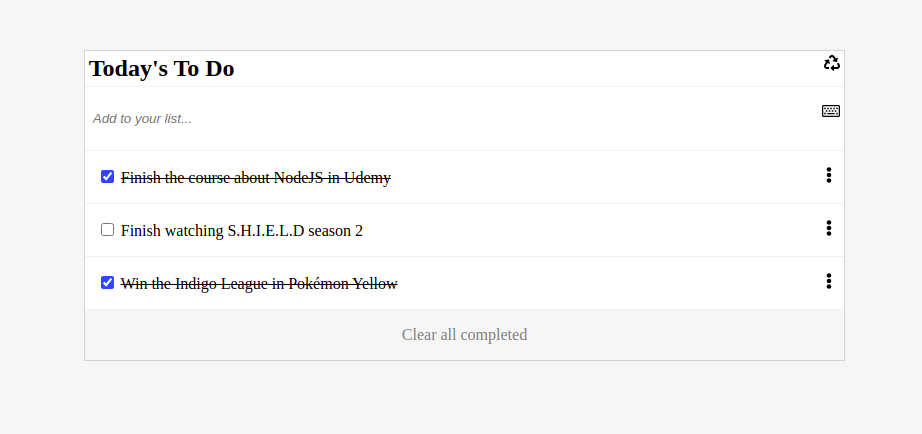
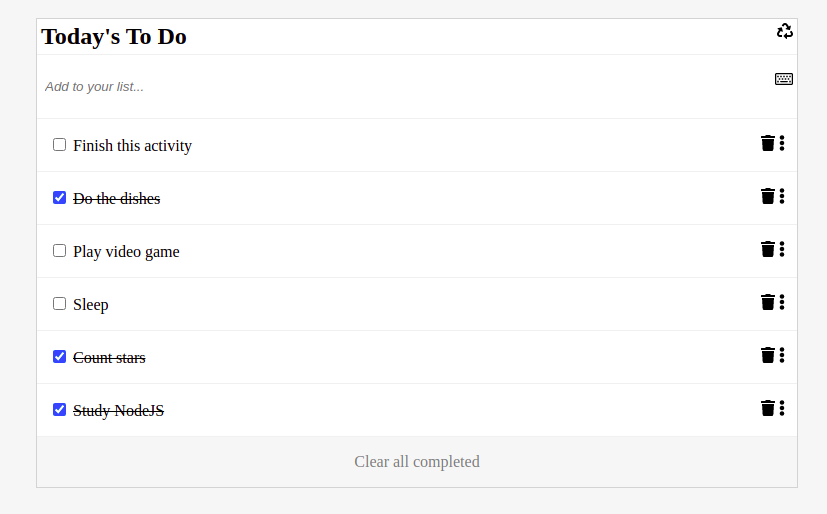
Fix the not appearing line-through bug, fix linters and add more information to README

diff --git a/src/add_remove.js b/src/add_remove.js
@@ -2,6 +2,8 @@
 import { getFromLocalStorage, setToLocalStorage } from './storage.js';
 // eslint-disable-next-line
 import { dragAndDrop, refreshLocalStorage } from './drag_drop.js';
+// eslint-disable-next-line
+import statusUpdate from './status_update.js';
 
 export function addEditHandlers() {
   const todoList = document.getElementsByClassName('todo-item');
@@ -61,6 +63,7 @@ export function addTodo(description) {
   appendToDOM(newTodo);
   dragAndDrop();
 
+  statusUpdate();
   addEditHandlers();
   addButtonHandlers();
 }

diff --git a/README.md b/README.md
@@ -8,6 +8,8 @@ The objective of this exercise so far is to display a list of things to do on th
 
 New features: Now it is possible to drag and drop items and to mark items as completed or not.
 
+Another new features: You can remove elements, add more elements, and remove all completed!
+
 ![screenshot](./screenshot.png)
 
 ## Built With
@@ -55,3 +57,4 @@ Give a ⭐ if you like this project!
 - Microverse
 - Webpack documentation
 - Web documentation (W3Schools, MDN, Stack Overflow)
+- Friends, lots of great and awesome friends!
